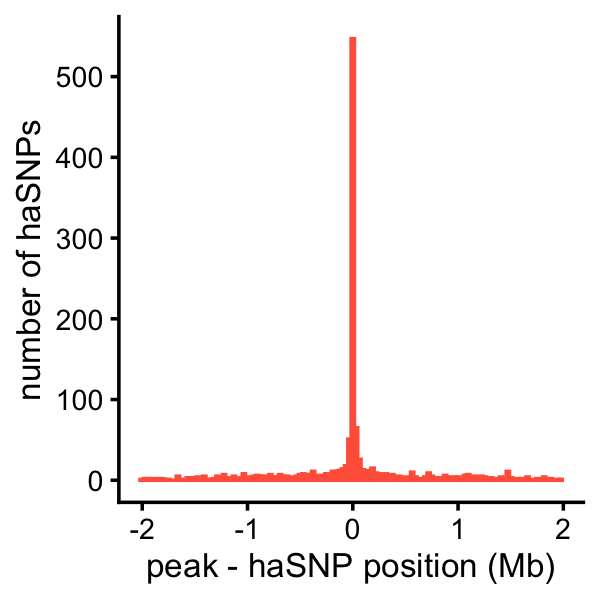
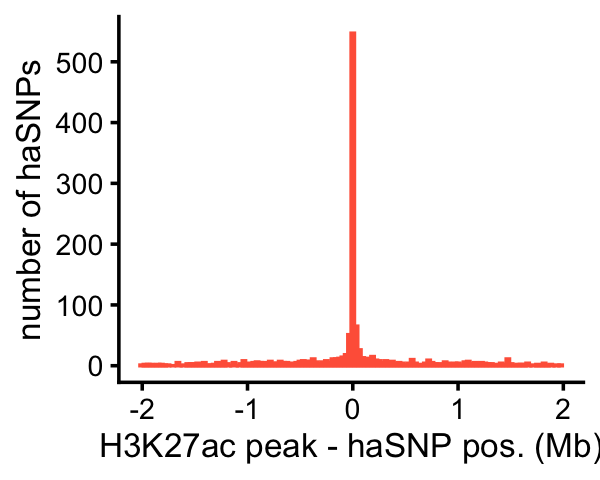
Ran wflow_publish("rosmap_h3k27ac.Rmd").

Changed region(s): [[0.15, 0.6875, 1.0, 0.9688], [0.0, 0.0938, 0.21, 0.7188]]

diff --git a/docs/rosmap_h3k27ac.html b/docs/rosmap_h3k27ac.html
@@ -302,7 +302,7 @@ aria-hidden="true"></span> </a>
 <div class="tab-content">
 <div id="summary" class="tab-pane fade in active">
 <p>
-<strong>Last updated:</strong> 2025-05-13
+<strong>Last updated:</strong> 2025-05-14
 </p>
 <p>
 <strong>Checks:</strong> <span
@@ -442,15 +442,15 @@ project makes it easier to run your code on other machines.</p>
 <div class="panel panel-default">
 <div class="panel-heading">
 <p class="panel-title">
-<a data-toggle="collapse" data-parent="#workflowr-checks" href="#strongRepositoryversionstrongahrefhttpsgithubcomstephenslabfsusieexperimentstreeda54e8d5102310d984ab84ef04774cd57606c266targetblankda54e8da">
+<a data-toggle="collapse" data-parent="#workflowr-checks" href="#strongRepositoryversionstrongahrefhttpsgithubcomstephenslabfsusieexperimentstree61d9e9ccda73c9ee28561979a63dca3c15f54bc0targetblank61d9e9ca">
 <span class="glyphicon glyphicon-ok text-success"
 aria-hidden="true"></span> <strong>Repository version:</strong>
-<a href="https://github.com/stephenslab/fsusie-experiments/tree/da54e8d5102310d984ab84ef04774cd57606c266" target="_blank">da54e8d</a>
+<a href="https://github.com/stephenslab/fsusie-experiments/tree/61d9e9ccda73c9ee28561979a63dca3c15f54bc0" target="_blank">61d9e9c</a>
 </a>
 </p>
 </div>
 <div
[2 lines of base64/hex data omitted]
 class="panel-collapse collapse">
 <div class="panel-body">
 <p>
@@ -460,7 +460,7 @@ reproducibility.
 </p>
 <p>
 The results in this page were generated with repository version
-<a href="https://github.com/stephenslab/fsusie-experiments/tree/da54e8d5102310d984ab84ef04774cd57606c266" target="_blank">da54e8d</a>.
+<a href="https://github.com/stephenslab/fsusie-experiments/tree/61d9e9ccda73c9ee28561979a63dca3c15f54bc0" target="_blank">61d9e9c</a>.
 See the <em>Past versions</em> tab to see a history of the changes made
 to the R Markdown and HTML files.
 </p>
@@ -475,9 +475,17 @@ were generated:
 </p>
 <pre><code>
 Untracked files:
-    Untracked:  analysis/dist_hasnp_peak_cs1snp.pdf
+    Untracked:  analysis/#rosmap_h3k27ac.Rmd#
+    Untracked:  analysis/.#rosmap_h3k27ac.Rmd
+    Untracked:  analysis/affected_cpgs_per_snp.pdf
+    Untracked:  analysis/affected_cpgs_per_tad.pdf
+    Untracked:  analysis/cs_per_tad_scatterplot_methyl.pdf
+    Untracked:  analysis/cs_sizes_methyl.pdf
+    Untracked:  analysis/dist_msnp_cpg_cs1snp.pdf
+    Untracked:  analysis/dist_to_tss_methyl.pdf
     Untracked:  analysis/rosmap_h3k27ac_cache/
     Untracked:  analysis/rosmap_overview_cache/
+    Untracked:  analysis/tad_sizes_histogram.pdf
     Untracked:  data/afreq.RData
     Untracked:  data/analysis_result/Fungen_xQTL.ENSG00000163808.cis_results_db.export.rds
     Untracked:  data/analysis_result/ROSMAP_haQTL.chr3_43915257_48413435.fsusie_mixture_normal_top_pc_weights.rds
@@ -500,6 +508,9 @@ Untracked files:
     Untracked:  outputs/ROSMAP_mQTL_cs_snp_toppc1_annotation.tsv.gz
     Untracked:  outputs/ROSMAP_mQTL_qtl_snp_qval0.05.tsv.gz
     Untracked:  outputs/ROSMAP_mQTL_qtl_snp_qval0.05_annotation.tsv.gz
+
+Unstaged changes:
+    Modified:   analysis/rosmap_overview.Rmd
 
 </code></pre>
 <p>
@@ -545,6 +556,74 @@ Message
 </tr>
 </thead>
 <tbody>
+<tr>
+<td>
+Rmd
+</td>
+<td>
+<a href="https://github.com/stephenslab/fsusie-experiments/blob/fe030b047e0c8528832d831d0124dce6802d9b1d/analysis/rosmap_h3k27ac.Rmd" target="_blank">fe030b0</a>
+</td>
+<td>
+Peter Carbonetto
+</td>
+<td>
+2025-05-14
+</td>
+<td>
+A bunch of revisions to the rosmap_overview analysis.
+</td>
+</tr>
+<tr>
+<td>
+Rmd
+</td>
+<td>
+<a href="https://github.com/stephenslab/fsusie-experiments/blob/3e1d8ab629227c8a814f32dda9a117033ebbdd81/analysis/rosmap_h3k27ac.Rmd" target="_blank">3e1d8ab</a>
+</td>
+<td>
+Peter Carbonetto
+</td>
+<td>
+2025-05-14
+</td>
+<td>
+Updated distance-to-TSS plot in rosmap_overview analysis.
+</td>
+</tr>
+<tr>
+<td>
+Rmd
+</td>
+<td>
+<a href="https://github.com/stephenslab/fsusie-experiments/blob/065d87f932d4a984122e9a7ad5b19ce6941bd371/analysis/rosmap_h3k27ac.Rmd" target="_blank">065d87f</a>
+</td>
+<td>
+Peter Carbonetto
+</td>
+<td>
+2025-05-13
+</td>
+<td>
+A couple small adjustments to the plots in the rosmap_h3k27ac analysis.
+</td>
+</tr>
+<tr>
+<td>
+html
+</td>
+<td>
+<a href="https://rawcdn.githack.com/stephenslab/fsusie-experiments/cd9169036272f97de4a8ba5c7a2f95c1375ae7a2/docs/rosmap_h3k27ac.html" target="_blank">cd91690</a>
+</td>
+<td>
+Peter Carbonetto
+</td>
+<td>
+2025-05-13
+</td>
+<td>
+Ran wflow_publish("rosmap_h3k27ac.Rmd").
+</td>
+</tr>
 <tr>
 <td>
 Rmd
@@ -1044,6 +1123,7 @@ p1 &lt;- ggplot(data.frame(cs_size = cs_size_susie),aes(x = cs_size)) +
 p2 &lt;- ggplot(data.frame(cs_size = cs_size_fsusie),aes(x = cs_size)) +
   geom_histogram(stat = &quot;count&quot;,color = &quot;white&quot;,fill = &quot;tomato&quot;,
                  width = 0.65) +
+  scale_y_continuous(breaks = seq(0,2000,250)) + 
   labs(x = &quot;CS size&quot;,y = &quot;number of CSs&quot;,title = &quot;fSuSiE&quot;) +
   theme_cowplot(font_size = 10) +
   theme(plot.title = element_text(size = 10,face = &quot;plain&quot;))
@@ -1162,6 +1242,17 @@ Date
 <tbody>
 <tr>
 <td>
+<a href="https://github.com/stephenslab/fsusie-experiments/blob/cd9169036272f97de4a8ba5c7a2f95c1375ae7a2/docs/figure/rosmap_h3k27ac.Rmd/plot-weighted-distance-to-tss-1.png" target="_blank">cd91690</a>
+</td>
+<td>
+Peter Carbonetto
+</td>
+<td>
+2025-05-13
+</td>
+</tr>
+<tr>
+<td>
 <a href="https://github.com/stephenslab/fsusie-experiments/blob/75fcda12c6dcf59c93aa5641910718eaa5e60727/docs/figure/rosmap_h3k27ac.Rmd/plot-weighted-distance-to-tss-1.png" target="_blank">75fcda1</a>
 </td>
 <td>
@@ -1191,8 +1282,6 @@ table(cut(1 - cs1snp_fsusie$pip,c(0,0.0001,0.001,0.01,1)))
 # 
 #     (0,0.0001] (0.0001,0.001]   (0.001,0.01]       (0.01,1] 
 #            558            179            179            237</code></pre>
-<p>This plot shows the distribution of the distances between the haSNP
-(in the 1-SNP CS) and the nearest H3K27ac peak affected by that SNP:</p>
 <p>Count the number of affected peaks per TAD from the fSuSiE
 results:</p>
 <pre class="r"><code>peaks_per_tad_fsusie &lt;-
@@ -1222,6 +1311,43 @@ p2 &lt;- ggplot(pdat2,aes(x = x)) +
   theme(plot.title = element_text(size = 10,face = &quot;plain&quot;))
 plot_grid(p1,p2,nrow = 1,ncol = 2)</code></pre>
 <p><img src="figure/rosmap_h3k27ac.Rmd/plot-peaks-per-tad-1.png" width="600" style="display: block; margin: auto;" /></p>
+<p>
+<button type="button" class="btn btn-default btn-xs btn-workflowr btn-workflowr-fig" data-toggle="collapse" data-target="#fig-plot-peaks-per-tad-1">
+Past versions of plot-peaks-per-tad-1.png
+</button>
+</p>
+<div id="fig-plot-peaks-per-tad-1" class="collapse">
+<div class="table-responsive">
+<table class="table table-condensed table-hover">
+<thead>
+<tr>
+<th>
+Version
+</th>
+<th>
+Author
+</th>
+<th>
+Date
+</th>
+</tr>
+</thead>
+<tbody>
+<tr>
+<td>
+<a href="https://github.com/stephenslab/fsusie-experiments/blob/cd9169036272f97de4a8ba5c7a2f95c1375ae7a2/docs/figure/rosmap_h3k27ac.Rmd/plot-peaks-per-tad-1.png" target="_blank">cd91690</a>
+</td>
+<td>
+Peter Carbonetto
+</td>
+<td>
+2025-05-13
+</td>
+</tr>
+</tbody>
+</table>
+</div>
+</div>
 <p>A very small number of TADs have more than 100 affected peaks:</p>
 <pre class="r"><code>mean(peaks_per_tad_assoc &gt; 100,na.rm = TRUE)
 mean(peaks_per_tad_fsusie &gt; 100,na.rm = TRUE)
@@ -1240,6 +1366,43 @@ p &lt;- ggplot(pdat,aes(x = assoc,y = fsusie)) +
   theme_cowplot(font_size = 10)
 print(p)</code></pre>
 <p><img src="figure/rosmap_h3k27ac.Rmd/compare-peaks-per-tad-1.png" width="300" style="display: block; margin: auto;" /></p>
+<p>
+<button type="button" class="btn btn-default btn-xs btn-workflowr btn-workflowr-fig" data-toggle="collapse" data-target="#fig-compare-peaks-per-tad-1">
+Past versions of compare-peaks-per-tad-1.png
+</button>
+</p>
+<div id="fig-compare-peaks-per-tad-1" class="collapse">
+<div class="table-responsive">
+<table class="table table-condensed table-hover">
+<thead>
+<tr>
+<th>
+Version
+</th>
+<th>
+Author
+</th>
+<th>
+Date
+</th>
+</tr>
+</thead>
+<tbody>
+<tr>
+<td>
+<a href="https://github.com/stephenslab/fsusie-experiments/blob/cd9169036272f97de4a8ba5c7a2f95c1375ae7a2/docs/figure/rosmap_h3k27ac.Rmd/compare-peaks-per-tad-1.png" target="_blank">cd91690</a>
+</td>
+<td>
+Peter Carbonetto
+</td>
+<td>
+2025-05-13
+</td>
+</tr>
+</tbody>
+</table>
+</div>
+</div>
 <p>These next two plots compare the number of affected peaks per CS for
 fSuSiE to the number of affected peaks per SNP from the association
 tests:</p>
@@ -1267,6 +1430,43 @@ p2 &lt;- ggplot(pdat2,aes(x = x)) +
   theme(plot.title = element_text(size = 10,face = &quot;plain&quot;))
 plot_grid(p1,p2,nrow = 1,ncol = 2)</code></pre>
 <p><img src="figure/rosmap_h3k27ac.Rmd/count-peaks-per-snp-1.png" width="540" style="display: block; margin: auto;" /></p>
+<p>
+<button type="button" class="btn btn-default btn-xs btn-workflowr btn-workflowr-fig" data-toggle="collapse" data-target="#fig-count-peaks-per-snp-1">
+Past versions of count-peaks-per-snp-1.png
+</button>
+</p>
+<div id="fig-count-peaks-per-snp-1" class="collapse">
+<div class="table-responsive">
+<table class="table table-condensed table-hover">
+<thead>
+<tr>
+<th>
+Version
+</th>
+<th>
+Author
+</th>
+<th>
+Date
+</th>
+</tr>
+</thead>
+<tbody>
+<tr>
+<td>
+<a href="https://github.com/stephenslab/fsusie-experiments/blob/cd9169036272f97de4a8ba5c7a2f95c1375ae7a2/docs/figure/rosmap_h3k27ac.Rmd/count-peaks-per-snp-1.png" target="_blank">cd91690</a>
+</td>
+<td>
+Peter Carbonetto
+</td>
+<td>
+2025-05-13
+</td>
+</tr>
+</tbody>
+</table>
+</div>
+</div>
 <p>A small proportion of the SNPs and CSs were not plotted because they
 had an unusually large number of affected peaks:</p>
 <pre class="r"><code>mean(peaks_per_snp_assoc &gt; 10)
@@ -1293,11 +1493,48 @@ pdat &lt;- data.frame(dist = pdat/1e6)
 p &lt;- ggplot(subset(pdat,abs(dist) &lt; 2),aes(x = dist)) +
   geom_histogram(bins = 128,color = &quot;tomato&quot;,fill = &quot;tomato&quot;) +
   scale_y_continuous(breaks = seq(0,500,100)) +
-  labs(x = &quot;peak - haSNP position (Mb)&quot;,
+  labs(x = &quot;H3K27ac peak - haSNP pos. (Mb)&quot;,
        y = &quot;number of haSNPs&quot;) +
   theme_cowplot(font_size = 10)
 print(p)</code></pre>
 <p><img src="figure/rosmap_h3k27ac.Rmd/dist-hasnp-peak-cs1snp-1.png" width="300" style="display: block; margin: auto;" /></p>
+<p>
+<button type="button" class="btn btn-default btn-xs btn-workflowr btn-workflowr-fig" data-toggle="collapse" data-target="#fig-dist-hasnp-peak-cs1snp-1">
+Past versions of dist-hasnp-peak-cs1snp-1.png
+</button>
+</p>
+<div id="fig-dist-hasnp-peak-cs1snp-1" class="collapse">
+<div class="table-responsive">
+<table class="table table-condensed table-hover">
+<thead>
+<tr>
+<th>
+Version
+</th>
+<th>
+Author
+</th>
+<th>
+Date
+</th>
+</tr>
+</thead>
+<tbody>
+<tr>
+<td>
+<a href="https://github.com/stephenslab/fsusie-experiments/blob/cd9169036272f97de4a8ba5c7a2f95c1375ae7a2/docs/figure/rosmap_h3k27ac.Rmd/dist-hasnp-peak-cs1snp-1.png" target="_blank">cd91690</a>
+</td>
+<td>
+Peter Carbonetto
+</td>
+<td>
+2025-05-13
+</td>
+</tr>
+</tbody>
+</table>
+</div>
+</div>
 <pre class="r"><code>table(abs(pdat$dist) &lt; 2)
 # 
 # FALSE  TRUE 
